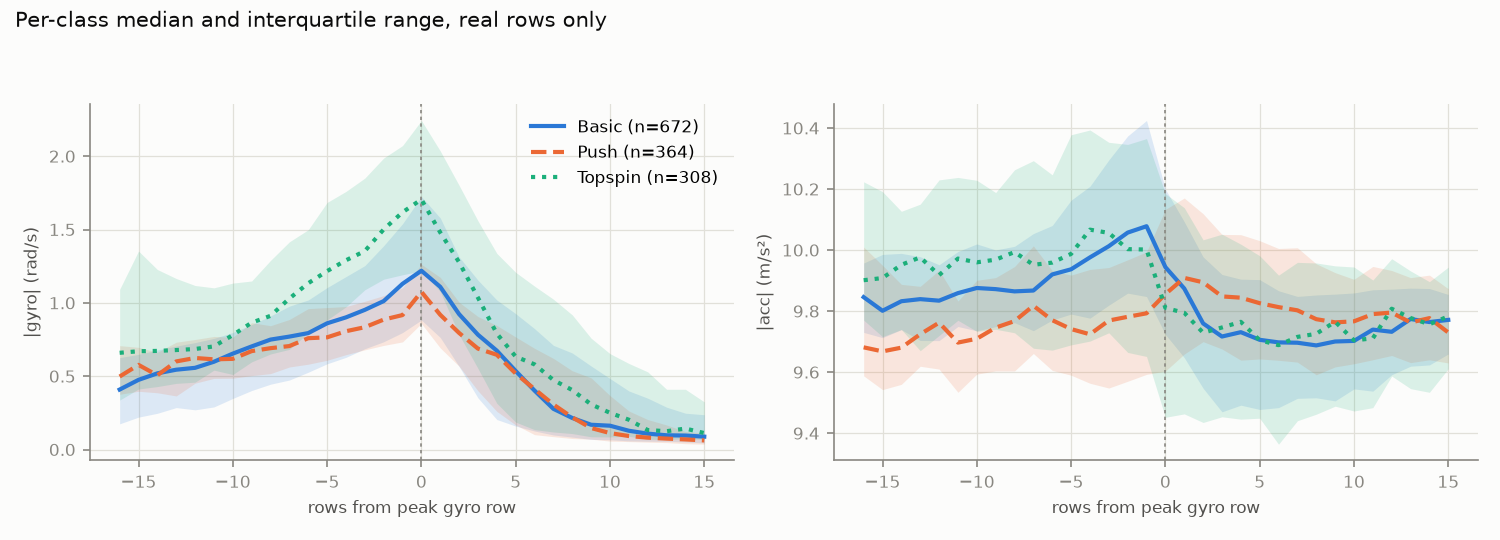
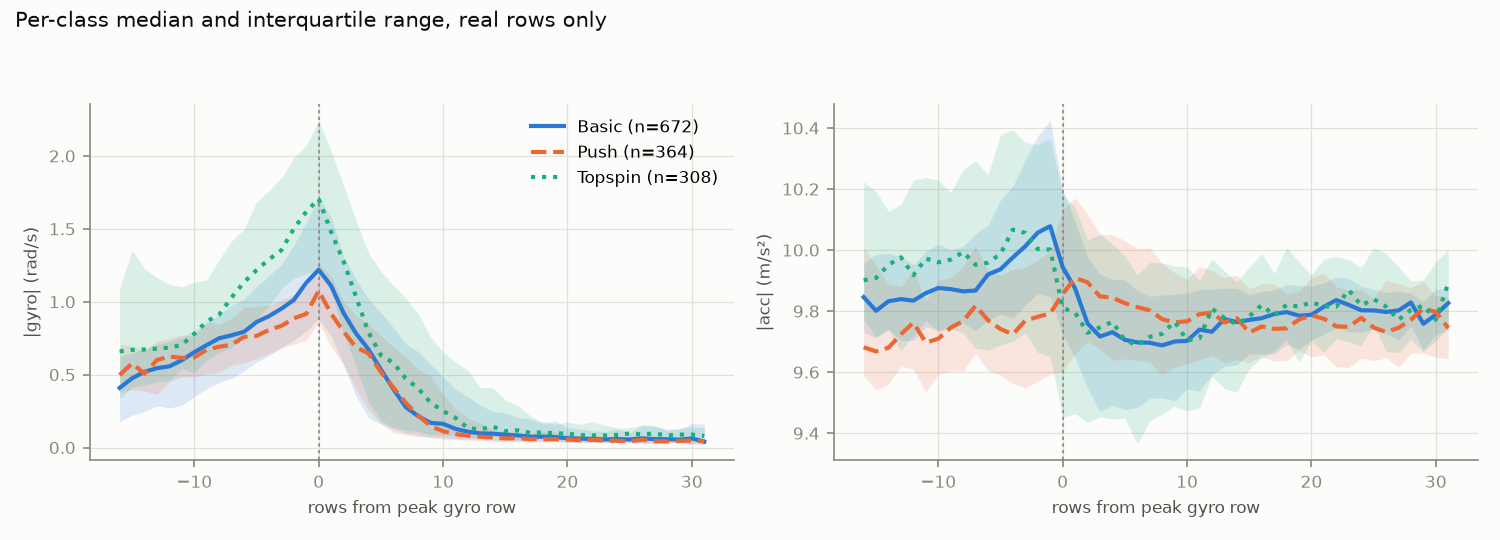
docs: regenerate D2 figures and record the window choice and signal finding

diff --git a/docs/DESIGN.md b/docs/DESIGN.md
@@ -159,15 +159,23 @@ Each entry: what was chosen, the alternatives considered, and why. Newest milest
 - **Alternatives:** raw degrees (a model would see a fake 358° jump); unwrapping within each stroke (continuous, but the same orientation can end up as 170° in one stroke and 530° in another).
 - **Why:** sin/cos is continuous everywhere and gives the same values for the same orientation in every stroke. The cost is one extra channel.
 
-### Window: 32 rows, peak gyro row at position 16, zero padding with a mask (owner-approved)
-- `racketimu.dataset.window_stroke` puts the first row of maximum gyro magnitude at index 16 (`pos` 0) and copies the rows around it. Rows outside the stroke are zero with `mask = False`. No scaling here: scaling is fitted inside each training fold in D3 to avoid leakage.
-- **Coverage (from `make preprocess`):** 77.4% of real rows are kept; 664 of 1344 strokes lose some rows, mostly after the peak (`window_coverage.png`). The peak tends to sit early in a stroke (median at 29% of its length).
-- **Measured alternatives:** 32 rows with 8 before the peak keeps 79.3%; 48 rows centered keeps 89.3%; 64 rows centered keeps 93.5%. Kept at the approved 32 for now; the owner reviews this with the figures.
+### Window: 48 rows, peak gyro row at position 16, zero padding with a mask
+- `racketimu.dataset.window_stroke` puts the first row of maximum gyro magnitude at `window.peak_position` (`pos` 0) and copies the rows around it. Rows outside the stroke are zero with `mask = False`. No scaling here: scaling is fitted inside each training fold in D3 to avoid leakage.
+- **First version (approved in review):** 32 rows centered on the peak kept only 77.4% of real rows; 664 of 1344 strokes lost rows, mostly after the peak, because the peak tends to sit early in a stroke (median at 29% of its length).
+- **Comparison (owner's request): 48 rows, peak at three positions, scored on coverage only.** Coverage is the fraction of real rows kept. It uses no labels, so choosing on it cannot leak class information into the design.
 
-### Observations from the figures (facts, recorded for D3 and the limitations)
-- **The peak is the first row in 238 strokes (17.7%):** the file starts at its largest rotation rate, so those strokes have no rows before the peak. The share is similar across classes (Basic 15.6%, Push 21.4%, Topspin 17.9%) and levels (novice 17.3%, pro 18.0%).
-- **Acceleration magnitude stays close to gravity:** median 9.81 m/s², 1st-99th percentile 8.75-11.57 m/s² over all real window rows (max 25.3). So the accelerometer mostly shows the racket's tilt relative to gravity, with little swing acceleration at this rate.
-- **Rotation rates are modest:** the peak gyro magnitude per stroke has a median of 1.22 rad/s (70 deg/s), 95th percentile 3.0 rad/s.
+  | peak position (rows before / after) | real rows kept | strokes losing rows |
+  |---|---|---|
+  | 24 (24 / 23) | 30844 of 34538 = 89.30% | 263 |
+  | **16 (16 / 31)** | **31137 of 34538 = 90.15%** | **223** |
+  | 12 (12 / 35) | 30452 of 34538 = 88.17% | 316 |
+
+- **Chosen:** 48 rows with the peak at position 16 (`window.n_rows: 48`, `window.peak_position: 16`), the highest coverage. It matches the shape of the data: few rows before the peak, more after. The D2 figures were regenerated with this window.
+
+### Finding: the logging rate probably undersamples the swing (interpretation, recorded for D3 and the limitations)
+- **Numbers** (used set, also in `docs/DATASET.md` under "Signal characteristics"): the peak rotation rate per stroke has a median of 1.22 rad/s (70 deg/s), 95th percentile 3.0 rad/s. The acceleration magnitude has a median of 9.81 m/s² and a 1st-99th percentile range of 8.79-11.44 m/s² over all rows, where gravity alone is 9.81. Rows arrive at about 8 per second.
+- **Interpretation, supported by the numbers but not certain:** the logging rate undersamples the fast phase of the stroke, so the signal mostly reflects the racket's orientation rather than swing dynamics. This matters for what the models can learn: stroke type may be recognisable from how the racket is held and turned, while fine timing and speed of the swing are largely invisible.
+- **The peak is on the first row in 238 strokes (17.7%):** the file starts at its largest rotation rate, so those strokes have no rows before the peak. This is a likely sign that recordings sometimes start mid-swing. The share is similar across classes (Basic 15.6%, Push 21.4%, Topspin 17.9%) and levels (novice 17.3%, pro 18.0%).
 - **Class profiles overlap heavily** (`class_profiles.png`): topspin has the highest median peak rotation rate and push the lowest, with wide interquartile bands.
 
 ### `strokes.parquet` is not committed

diff --git a/README.md b/README.md
@@ -10,7 +10,7 @@ This project takes a public dataset of table tennis forehands, recorded with a s
 
 The data and its original analysis belong to these authors. This project's contribution is its own evaluation protocol (leave-one-player-out), analysis, ablations, and inference interface. It makes no claim of novelty over the original work. The raw data is not redistributed here: download it from Mendeley Data (see Setup).
 
-> **Status: D2 done (fixed 32-row windows, review figures), awaiting review; D3 (stroke type classification) next.** No models have been trained yet, so there are no results. The data itself is described in [docs/DATASET.md](docs/DATASET.md): 1344 of the authors' 1570 cleaned samples are usable, from 15 players.
+> **Status: D2 done (48-row windows, review figures); D3 (stroke type classification) next.** No models have been trained yet, so there are no results. The data itself is described in [docs/DATASET.md](docs/DATASET.md): 1344 of the authors' 1570 cleaned samples are usable, from 15 players.
 
 ## Results
 
@@ -103,7 +103,7 @@ The remaining pipeline steps (`make preprocess`, … `make report`, `make all`) 
 
 3. **D1, data inspection:** inspected every file before writing code and reported the findings: about 8 rows per second instead of the stated 100 Hz, 223 cleaned samples with no accelerometer or gyroscope data, 5 score criteria (not 3 coaches), and several label spellings. With the owner's decisions, wrote the loader (`io.py`) and the generated dataset card (`make inspect`).
 
-4. **D2, preprocessing:** each stroke file becomes one sample of 32 rows centered on its peak rotation rate, with a mask for padding. Pitch is encoded as sin/cos because it wraps at ±180°. Heading channels (yaw, magnetometer) are kept out of the main input to avoid a shortcut.
+4. **D2, preprocessing:** each stroke file becomes one sample of 48 rows with its peak rotation rate at row 16, with a mask for padding. Pitch is encoded as sin/cos because it wraps at ±180°. Heading channels (yaw, magnetometer) are kept out of the main input to avoid a shortcut.
 
 Later milestones (D3 classification → D9 report) will be added here as they are completed.
 
